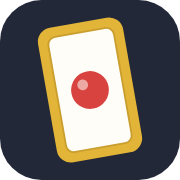
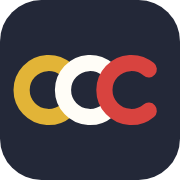
Monogram is CCC — Cali Coast Cards
Favicon redrawn as three bold C rings (gold/cream/red) that stay legible
at 16px; header/footer brand marks and the hero showcase card updated
from CC to CCC to match the calicoastcards.com domain.

Claude-Session: https://claude.ai/code/session_011qhPkhG6ZK8KHXgo3yVg1U

diff --git a/index.html b/index.html
@@ -21,7 +21,7 @@
   <header class="site-header">
     <div class="container header-inner">
       <a class="brand" href="#top" aria-label="CaliCards home">
-        <span class="brand-mark" aria-hidden="true">CC</span>
+        <span class="brand-mark" aria-hidden="true">CCC</span>
         <span class="brand-name">CaliCards</span>
       </a>
       <nav class="nav" aria-label="Primary">
@@ -79,7 +79,7 @@
                 <div class="card-art">
                   <div class="card-guilloche"></div>
                   <span class="card-set">Cali Coast</span>
-                  <span class="card-sigil">CC</span>
+                  <span class="card-sigil">CCC</span>
                   <span class="card-wordmark">CALICARDS</span>
                 </div>
                 <div class="card-glare"></div>
@@ -167,7 +167,7 @@
   <footer class="site-footer">
     <div class="container footer-inner">
       <a class="brand" href="#top">
-        <span class="brand-mark" aria-hidden="true">CC</span>
+        <span class="brand-mark" aria-hidden="true">CCC</span>
         <span class="brand-name">CaliCards</span>
       </a>
       <nav class="footer-nav" aria-label="Footer">

diff --git a/buying.html b/buying.html
@@ -21,7 +21,7 @@
   <header class="site-header">
     <div class="container header-inner">
       <a class="brand" href="index.html" aria-label="CaliCards home">
-        <span class="brand-mark" aria-hidden="true">CC</span>
+        <span class="brand-mark" aria-hidden="true">CCC</span>
         <span class="brand-name">CaliCards</span>
       </a>
       <nav class="nav" aria-label="Primary">
@@ -219,7 +219,7 @@
   <footer class="site-footer">
     <div class="container footer-inner">
       <a class="brand" href="index.html">
-        <span class="brand-mark" aria-hidden="true">CC</span>
+        <span class="brand-mark" aria-hidden="true">CCC</span>
         <span class="brand-name">CaliCards</span>
       </a>
       <nav class="footer-nav" aria-label="Footer">

diff --git a/css/styles.css b/css/styles.css
@@ -74,11 +74,12 @@ h1, h2, h3 { font-family: var(--font-display); font-weight: 700; letter-spacing:
 .brand-mark {
   display: grid;
   place-items: center;
-  width: 30px; height: 38px;
+  width: 32px; height: 40px;
   border-radius: 6px;
   font-family: var(--font-display);
   font-weight: 700;
-  font-size: 0.8rem;
+  font-size: 0.58rem;
+  letter-spacing: 0.01em;
   color: var(--red);
   background: var(--surface);
   border: 3px solid var(--gold);
